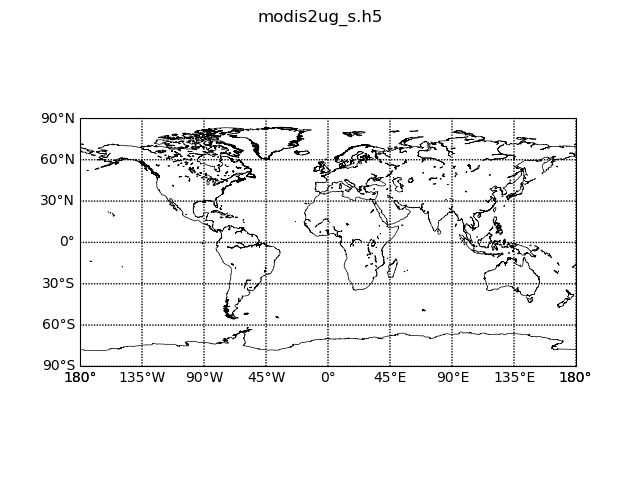
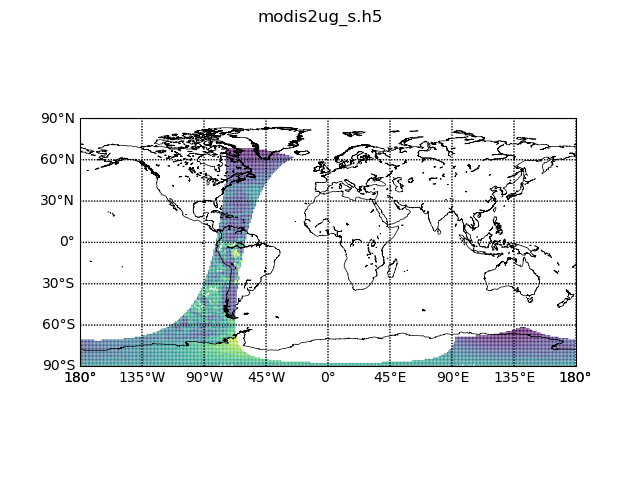
UIACCESS-67:fixed summary interpolation example.

Changed region(s): [[0.125, 0.3125, 0.9062, 0.7812]]

diff --git a/modis2ug_s.py b/modis2ug_s.py
@@ -60,12 +60,18 @@ f.close()
 # Set max radius.
 M_PI=3.14159265358979323846
 earthRadius = 6367444
-max_r = earthRadius * cellSize * M_PI / 180
-
-index = np.arange(nx*ny, dtype=np.int32)
-distance = np.arange(nx*ny, dtype=np.float64).reshape((ny,nx))
+size = 5040
+max_r = earthRadius * size * M_PI / 180
 
 n_src = modis_lat.size;
+sx = modis_lat.shape[0]
+sy = modis_lat.shape[1]
+
+index = np.arange(n_src, dtype=np.int32)
+distance = np.arange(n_src, dtype=np.float64).reshape((sy,sx))
+
+
+
 print(n_src)
 n_trg = nx * ny;
 print(n_trg)
@@ -74,12 +80,20 @@ lat_orig = lat.copy()
 lon_orig = lon.copy()
 
 # Find indexes of nearest neighbor point.
-pytaf.find_nn_block_index(modis_lat, modis_lon,
-                          n_src,
-                          lat, lon,
-                          index, distance,
+# pytaf.find_nn_block_index(modis_lat, modis_lon,
+#                           n_src,
+#                           lat, lon,
+#                           index, distance,
+#                           n_trg,
+#                           max_r)
+
+pytaf.find_nn_block_index(lat, lon,
                           n_trg,
-                          max_r)
+                          modis_lat, modis_lon,
+                          index, distance,
+                          n_src,
+#                          max_r)
+                          size)
 
 # The above function modifies lat and lon values. Bug?
 print(lat[ny-1,nx-1])
@@ -92,7 +106,7 @@ trg_data = np.arange(n_trg, dtype=np.float64).reshape((ny,nx))
 tarSD = np.arange(n_trg, dtype=np.float64).reshape((ny,nx))
 nSouPixels = np.arange(n_trg, dtype=np.int32)
 
-pytaf.interpolate_summary(modis_data, index, nx*ny,
+pytaf.interpolate_summary(modis_data, index, n_src,
                           trg_data, tarSD, nSouPixels, n_trg)
 print(trg_data)
 print('Finished retrieving data with index.')
